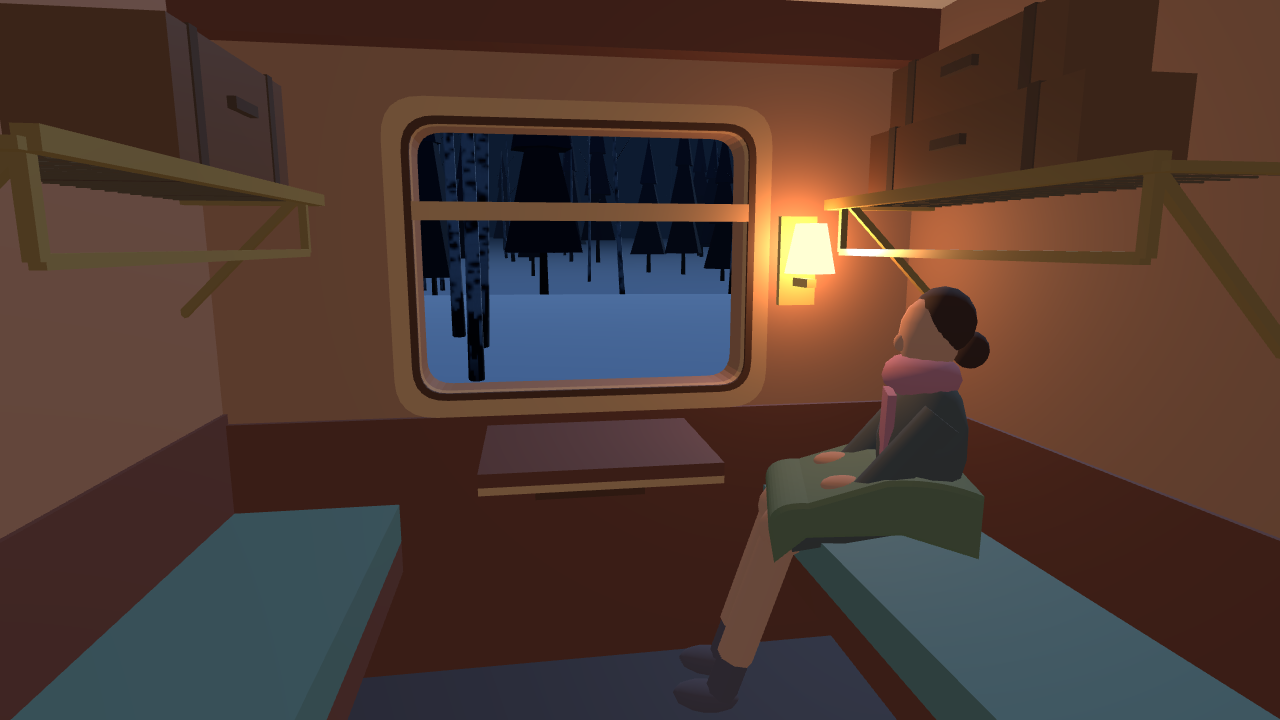
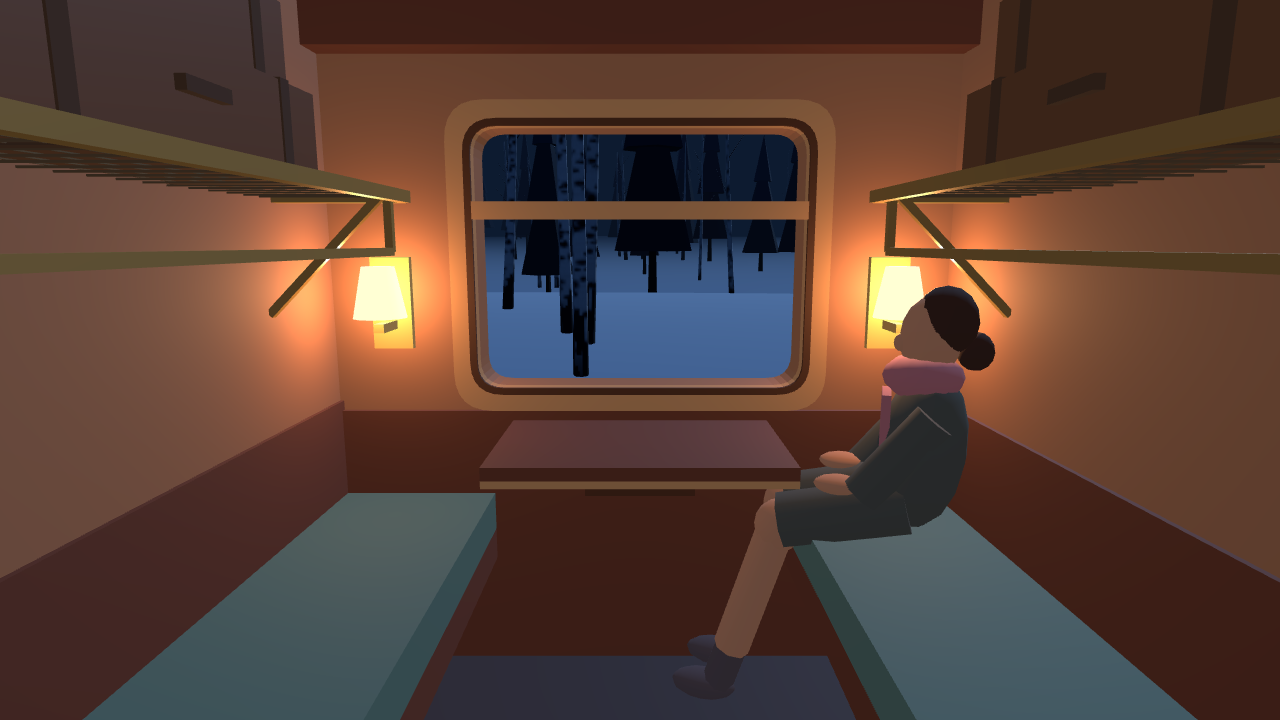
feat(train): mirror the M1 compartment and fit her legs under the table
Owner-directed composition pass: camera centred on the window so both
halves mirror; a wall lamp either side of the window, lowered below the
racks; matching suitcases on centred 1.6 m racks; a 1.9 m room with a
wider table so the seated figure's legs go under it; blanket removed.

diff --git a/src/train/compartment.ts b/src/train/compartment.ts
@@ -15,6 +15,9 @@ import { createLuggageRack } from "./luggageRack";
 
 const unitBox = new BoxGeometry();
 const WINDOW_CORNER_RADIUS_M = 0.08;
+const RACK_LENGTH_M = 1.6;
+const TABLE_HALF_WIDTH_M = 0.4;
+const lampshadeGeometry = new CylinderGeometry(0.047, 0.077, 0.15, 12);
 
 function finish(color: number, emissiveIntensity = 0.4) {
 	return new MeshStandardMaterial({
@@ -216,8 +219,9 @@ export function createCompartment() {
 	const table = rectangle(
 		window.x,
 		window.x + 0.5,
-		centreZ - 0.31,
-		centreZ + 0.31,
+		// Nearly reaches the berth edges, so a seated passenger's legs go under it.
+		centreZ - TABLE_HALF_WIDTH_M,
+		centreZ + TABLE_HALF_WIDTH_M,
 	);
 	block(trim, box(table, 0.755, 0.775));
 	block(wood, box(table, 0.775, 0.81));
@@ -233,38 +237,47 @@ export function createCompartment() {
 		block(wood, box(berth, 0.35, 0.45));
 		block(upholstery, box(berth, 0.45, berthTopM));
 	}
+	// Racks are centred on the end walls, between the window wall and the doorway.
+	const wallMidX = (window.x + doorX - 0.06) / 2;
+	const rackSpan = {
+		startX: wallMidX - RACK_LENGTH_M / 2,
+		endX: wallMidX + RACK_LENGTH_M / 2,
+	};
 	room.add(
-		createLuggageRack(leftWallZ, -1, "holdall"),
-		createLuggageRack(rightWallZ, 1, "suitcases"),
+		createLuggageRack(leftWallZ, -1, "suitcases", rackSpan),
+		createLuggageRack(rightWallZ, 1, "suitcases", rackSpan),
 	);
 
-	const lampZ = window.minZ + (rightWallZ - window.minZ) * 0.31;
+	// A wall lamp either side of the window, mirrored about its centre.
+	// Centred in the wall space between the window frame and the end wall, and
+	// low enough to clear the luggage-rack brackets above.
+	const frameEdge = window.maxZ - centreZ + 0.075;
+	const lampOffset = (frameEdge + (leftWallZ - centreZ)) / 2;
 	const lampX = window.x + 0.12;
-	const lampY = 1.35;
-	block(
-		brass,
-		box(
-			rectangle(window.x, window.x + 0.023, lampZ - 0.06, lampZ + 0.06),
-			lampY - 0.18,
-			lampY + 0.1,
-		),
-	);
-	block(
-		brass,
-		box(
-			rectangle(window.x + 0.022, lampX + 0.02, lampZ - 0.015, lampZ + 0.015),
-			lampY - 0.118,
-			lampY - 0.092,
-		),
-	);
-	const lampshade = new Mesh(
-		new CylinderGeometry(0.047, 0.077, 0.15, 12),
-		shade,
-	);
-	lampshade.position.set(lampX, lampY, lampZ);
-	const light = new PointLight(0xffbb7c, 0.75, 1.7);
-	light.position.set(lampX + 0.04, lampY, lampZ);
-	room.add(lampshade, light);
+	const lampY = 1.22;
+	for (const lampZ of [centreZ - lampOffset, centreZ + lampOffset]) {
+		block(
+			brass,
+			box(
+				rectangle(window.x, window.x + 0.023, lampZ - 0.06, lampZ + 0.06),
+				lampY - 0.18,
+				lampY + 0.1,
+			),
+		);
+		block(
+			brass,
+			box(
+				rectangle(window.x + 0.022, lampX + 0.02, lampZ - 0.015, lampZ + 0.015),
+				lampY - 0.118,
+				lampY - 0.092,
+			),
+		);
+		const lampshade = new Mesh(lampshadeGeometry, shade);
+		lampshade.position.set(lampX, lampY, lampZ);
+		const light = new PointLight(0xffbb7c, 0.75, 1.7);
+		light.position.set(lampX + 0.04, lampY, lampZ);
+		room.add(lampshade, light);
+	}
 
 	return room;
 }

diff --git a/src/train/compartmentLayout.ts b/src/train/compartmentLayout.ts
@@ -1,12 +1,13 @@
-import { compartments, dividerLeft, innerWall } from "./layout";
+import { compartments, dividerLeft, innerWall, rectangle } from "./layout";
 
-const PARTITION_HALF_THICKNESS = 0.055;
+// Narrower than the walkable carriage's 2.25 m rooms, like a real kupe, so the
+// table sits between the berth edges and her legs reach under it.
+const ROOM_HALF_LENGTH_M = 0.95;
+const BERTH_DEPTH_M = 0.485;
 const DOORWAY_DEPTH_M = 0.54;
 const DOORWAY_REVEAL_M = 0.1;
 const WINDOW_HALF_WIDTH_M = 0.5;
 const EYE_HEIGHT_M = 1.36;
-const EYE_LEFT_OF_WINDOW_CENTRE_M = 0.18;
-const AIM_RIGHT_OF_WINDOW_CENTRE_M = 0.17;
 const AIM_ABOVE_SILL_M = 0.08;
 
 const [firstRoom] = compartments;
@@ -23,10 +24,20 @@ export const compartmentLayout = {
 		bottom: 0.92,
 		top: 1.7,
 	},
-	leftWallZ: firstRoom.end - PARTITION_HALF_THICKNESS,
-	rightWallZ: firstRoom.start + PARTITION_HALF_THICKNESS,
-	leftBerth: firstRoom.bunks,
-	rightBerth: firstRoom.facingBunks,
+	leftWallZ: windowCentreZ + ROOM_HALF_LENGTH_M,
+	rightWallZ: windowCentreZ - ROOM_HALF_LENGTH_M,
+	leftBerth: rectangle(
+		-innerWall,
+		dividerLeft,
+		windowCentreZ + ROOM_HALF_LENGTH_M - BERTH_DEPTH_M,
+		windowCentreZ + ROOM_HALF_LENGTH_M,
+	),
+	rightBerth: rectangle(
+		-innerWall,
+		dividerLeft,
+		windowCentreZ - ROOM_HALF_LENGTH_M,
+		windowCentreZ - ROOM_HALF_LENGTH_M + BERTH_DEPTH_M,
+	),
 	doorX: dividerLeft + DOORWAY_DEPTH_M,
 	doorHalfWidth: 0.69,
 	ceiling: 2.06,
@@ -38,17 +49,19 @@ export const compartmentView = {
 	eye: {
 		x: compartmentLayout.doorX - DOORWAY_REVEAL_M,
 		y: EYE_HEIGHT_M,
-		z: windowCentreZ + EYE_LEFT_OF_WINDOW_CENTRE_M,
+		// Centred on the window so the left and right halves mirror each other.
+		z: windowCentreZ,
 	},
 	focus: {
 		x: compartmentLayout.window.x,
 		y: compartmentLayout.window.bottom + AIM_ABOVE_SILL_M,
-		z: windowCentreZ - AIM_RIGHT_OF_WINDOW_CENTRE_M,
+		z: windowCentreZ,
 	},
 };
 
 export const compartmentSeat = {
-	x: compartmentLayout.window.x + 0.43,
+	// Close to the window so her shins and feet go under the table.
+	x: compartmentLayout.window.x + 0.32,
 	y: berthTopM,
 	z: compartmentLayout.rightWallZ + 0.18,
 };

diff --git a/src/train/luggageRack.ts b/src/train/luggageRack.ts
@@ -10,10 +10,8 @@ import {
 const unitBox = new BoxGeometry();
 const rackHeight = 1.48;
 const rackDepth = 0.34;
-const rackStartX = -1.31;
-const rackEndX = -0.16;
-const rackLength = rackEndX - rackStartX;
-const rackMidX = (rackStartX + rackEndX) / 2;
+/** Default span along the compartment wall (the walkable carriage's rooms). */
+const DEFAULT_SPAN = { startX: -1.31, endX: -0.16 } as const;
 const tube = 0.03;
 
 const brass = new MeshStandardMaterial({
@@ -42,7 +40,12 @@ export function createLuggageRack(
 	wallZ: number,
 	toward: 1 | -1,
 	luggage?: "suitcases" | "holdall",
+	span: { readonly startX: number; readonly endX: number } = DEFAULT_SPAN,
 ) {
+	const rackStartX = span.startX;
+	const rackEndX = span.endX;
+	const rackLength = rackEndX - rackStartX;
+	const rackMidX = (rackStartX + rackEndX) / 2;
 	const rack = new Group();
 	rack.position.set(0, rackHeight, wallZ);
 	const front = toward * rackDepth;
@@ -147,10 +150,10 @@ export function createLuggageRack(
 	}
 
 	if (luggage === "suitcases") {
-		bag(-0.82, 0, 0.145, 0.8, 0.19, 0.23);
-		bag(-0.825, 0.19, 0.145, 0.65, 0.16, 0.19);
+		bag(rackMidX - 0.085, 0, 0.145, 0.8, 0.19, 0.23);
+		bag(rackMidX - 0.09, 0.19, 0.145, 0.65, 0.16, 0.19);
 	} else if (luggage === "holdall") {
-		bag(-0.91, 0, 0.165, 0.58, 0.27, 0.27);
+		bag(rackMidX - 0.175, 0, 0.165, 0.58, 0.27, 0.27);
 	}
 	return rack;
 }

diff --git a/src/npc/girl.ts b/src/npc/girl.ts
@@ -1,11 +1,9 @@
 import {
 	BoxGeometry,
 	CylinderGeometry,
-	ExtrudeGeometry,
 	Group,
 	Mesh,
 	MeshStandardMaterial,
-	Shape,
 	SphereGeometry,
 	Vector3,
 } from "three";
@@ -27,7 +25,6 @@ const skin = cloth(0xa5735a);
 const hair = cloth(0x36221d);
 const coat = cloth(0x424442);
 const scarf = cloth(0x975b66);
-const blanket = cloth(0x555f44);
 const socks = cloth(0x494048);
 const up = new Vector3(0, 1, 0);
 
@@ -104,31 +101,6 @@ export function createGirl(seat: Seat) {
 		segment(socks, x, -0.3, 0.466, -0.514, 0.535, 0.047);
 		oval(girl, socks, x, -0.525, 0.577, 0.057, 0.04, 0.098);
 	}
-
-	// Extrude the folded profile across her lap. The front edge hangs over the knees.
-	const profile = new Shape();
-	profile.moveTo(-0.105, 0.16);
-	profile.quadraticCurveTo(0, 0.2, 0.12, 0.184);
-	profile.lineTo(0.31, 0.114);
-	profile.quadraticCurveTo(0.41, 0.114, 0.401, 0.05);
-	profile.lineTo(0.39, -0.029);
-	profile.lineTo(0.319, 0.042);
-	profile.lineTo(0.073, 0.065);
-	profile.lineTo(-0.105, 0.015);
-	profile.closePath();
-	const wrap = new Mesh(
-		new ExtrudeGeometry(profile, {
-			depth: 0.396,
-			bevelEnabled: true,
-			bevelSegments: 1,
-			bevelSize: 0.012,
-			bevelThickness: 0.012,
-		}),
-		blanket,
-	);
-	wrap.position.x = 0.198;
-	wrap.rotation.y = -Math.PI / 2;
-	girl.add(wrap);
 
 	return girl;
 }
